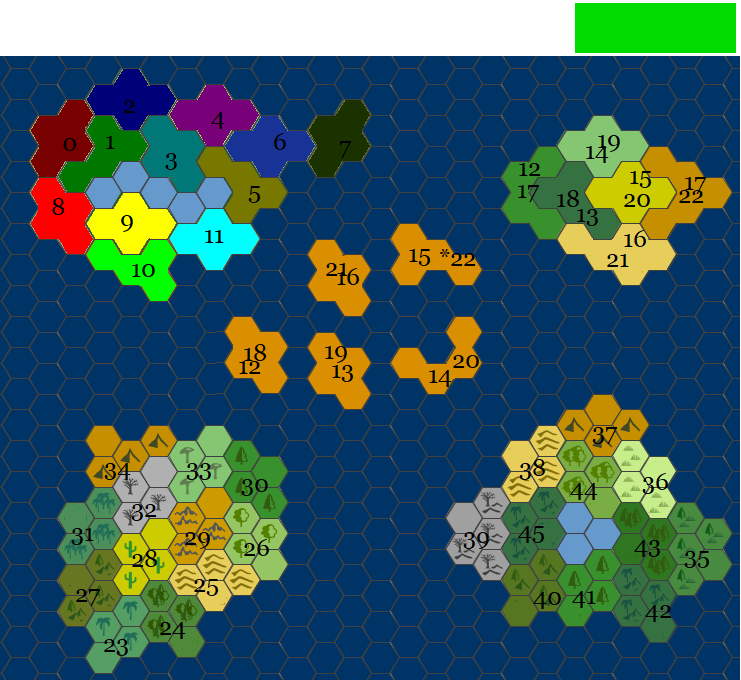
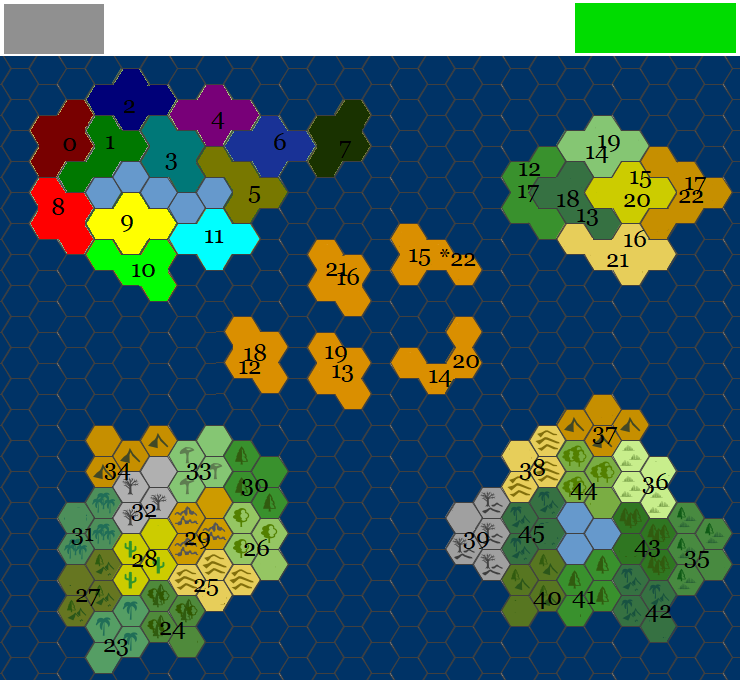
[ADD] Log,changed green color, recentered velues

Changed region(s): [[0.0, 0.0, 0.1552, 0.0926]]

diff --git a/view/playerview.py b/view/playerview.py
@@ -42,6 +42,7 @@ class PlayerView:
             self.colorToAct[(b,g,r)] = index
 
         self.colorToAct[(0,220,0)] = "Run"
+        self.colorToAct[(144,144,144)] = "Log"
         self.actHandler = ActionHandler()
         SIZE = (741,680)
         self.surface = pygame.display.set_mode(SIZE)
@@ -76,6 +77,12 @@ class PlayerView:
             self.last_action_time = current_time
 
     def RunCommand(self,command):
+        if(command == "Log"):
+            log = self.server.GetLog()
+            print(log)
+            return
+
+
         if(self.viewhandler.isSelectingTerritoryForAttack):
             self.RunCommandAttack(command)
         elif(self.viewhandler.isSelectingTerritoryForTransfer):
@@ -201,26 +208,28 @@ class PlayerView:
             pos = coordFromTerr.get(id) or [0,0]
             col = territory.owner.color
 
-            score_font = pygame.font.Font(None, 20)
-            score_surf = score_font.render(str(troop["field"]), 1, col)
-            self.surface.blit(score_surf, [pos[0],pos[1]])
+            if(territory.owner_id >= 0):
 
-            score_font = pygame.font.Font(None, 20)
-            score_surf = score_font.render(str(troop["navy"]), 1, col)
-            self.surface.blit(score_surf, [pos[0]+10,pos[1]])
+                score_font = pygame.font.Font(None, 14)
+                score_surf = score_font.render(str(troop["field"]), 1, col)
+                self.surface.blit(score_surf, [pos[0]-10,pos[1]-4])
 
-            score_font = pygame.font.Font(None, 20)
-            score_surf = score_font.render(str(troop["para"]), 1, col)
-            self.surface.blit(score_surf, [pos[0]+20,pos[1]])
+                score_font = pygame.font.Font(None, 14)
+                score_surf = score_font.render(str(troop["navy"]), 1, col)
+                self.surface.blit(score_surf, [pos[0]+4,pos[1]-13])
 
-            score_font = pygame.font.Font(None, 20)
-            score_surf = score_font.render(str(troop["animals"]), 1, col)
-            self.surface.blit(score_surf, [pos[0]+35,pos[1]])
+                score_font = pygame.font.Font(None, 14)
+                score_surf = score_font.render(str(troop["para"]), 1, col)
+                self.surface.blit(score_surf, [pos[0]+4,pos[1]+4])
+            else:
+                score_font = pygame.font.Font(None, 14)
+                score_surf = score_font.render(str(troop["animals"]), 1, col)
+                self.surface.blit(score_surf, [pos[0],pos[1]])
 
             if(territory.eventOn):
-                score_font = pygame.font.Font(None, 20)
+                score_font = pygame.font.Font(None, 14)
                 score_surf = score_font.render("Event!", 1, col)
-                self.surface.blit(score_surf, [pos[0],pos[1]+10])
+                self.surface.blit(score_surf, [pos[0],pos[1]+15])
                 score_surf = score_font.render(str(territory.eventCountdown), 1, col)
                 self.surface.blit(score_surf, [pos[0],pos[1]+20])
 

diff --git a/server.py b/server.py
@@ -50,6 +50,12 @@ class Server():
         t_json = get_game_response.json()
         return(t_json)
     
+    def GetLog(self):
+        get_game_response = requests.get(f'{self.server_url}/get_log_json')
+        l_json = get_game_response.json()
+        return(l_json)
+
+    
     def SetDataFromJson(self):
         playerjson = self.json["players"]
         for p in playerjson:
@@ -99,7 +105,7 @@ class Server():
         if(i==0):
             return(0,0,255)
         if(i==1):
-            return(0,255,0)
+            return(40,255,100)
         if(i==2):
             return(255,0,0)
         if(i==3):
